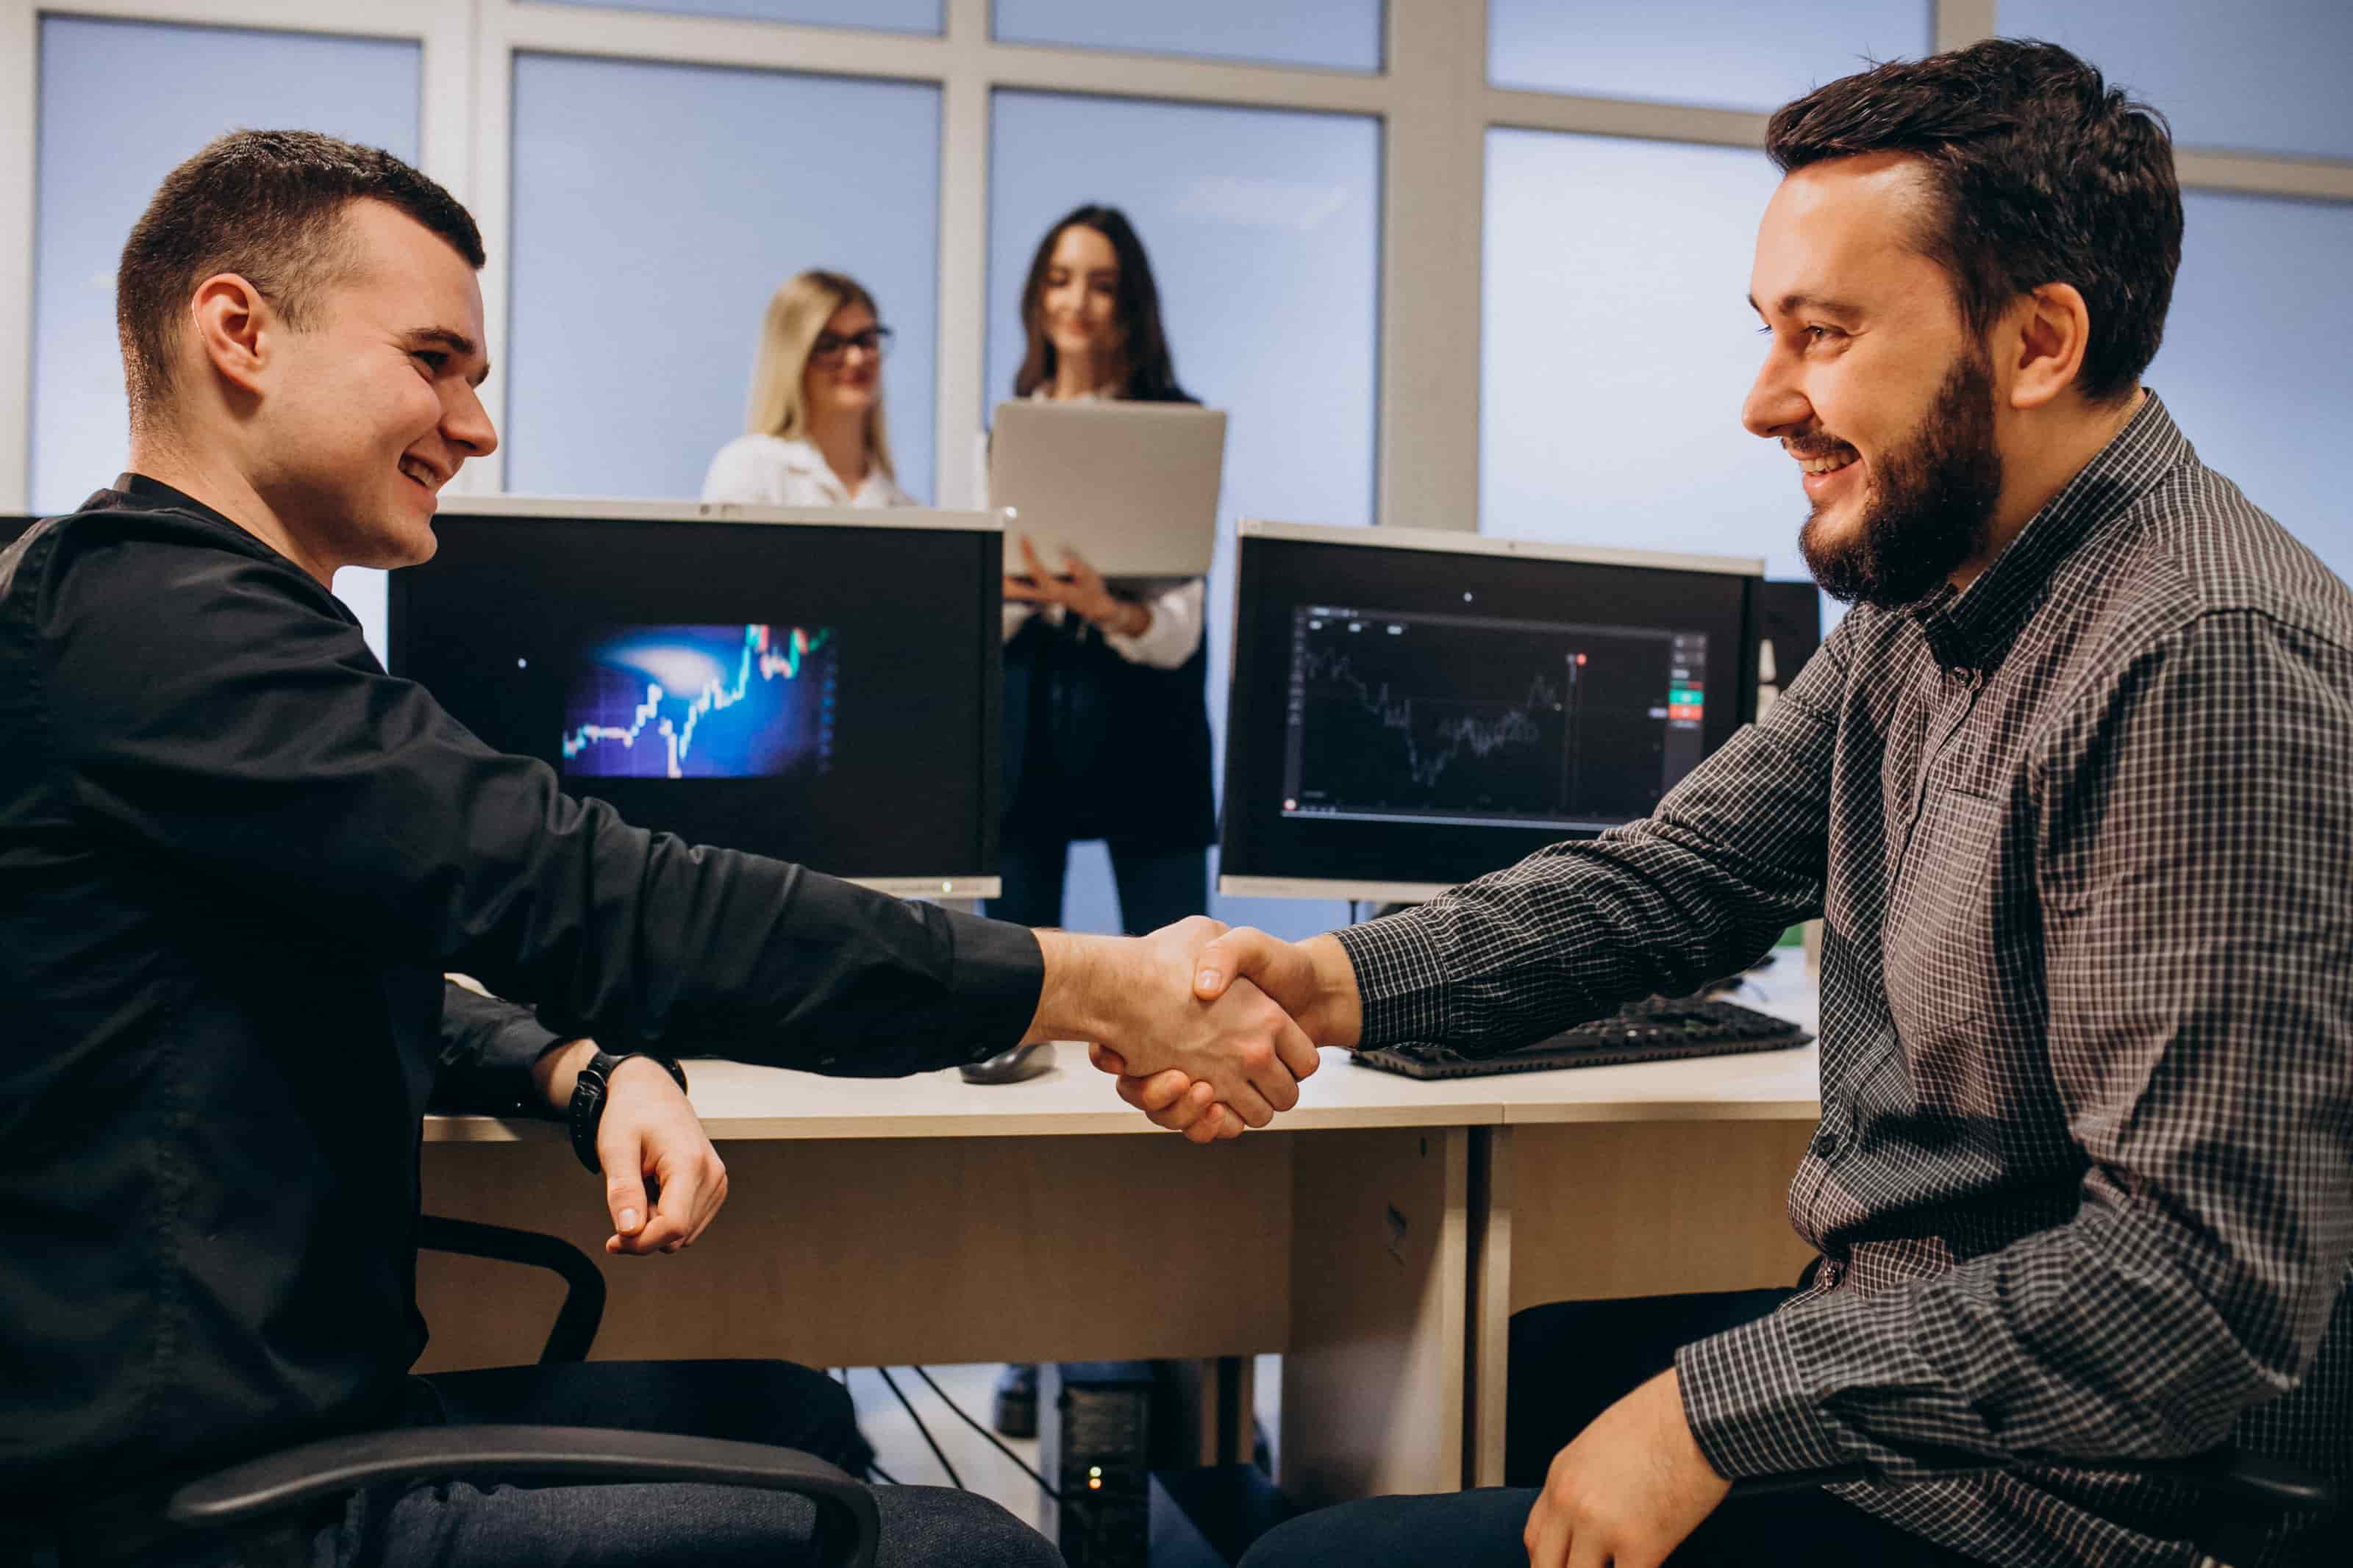
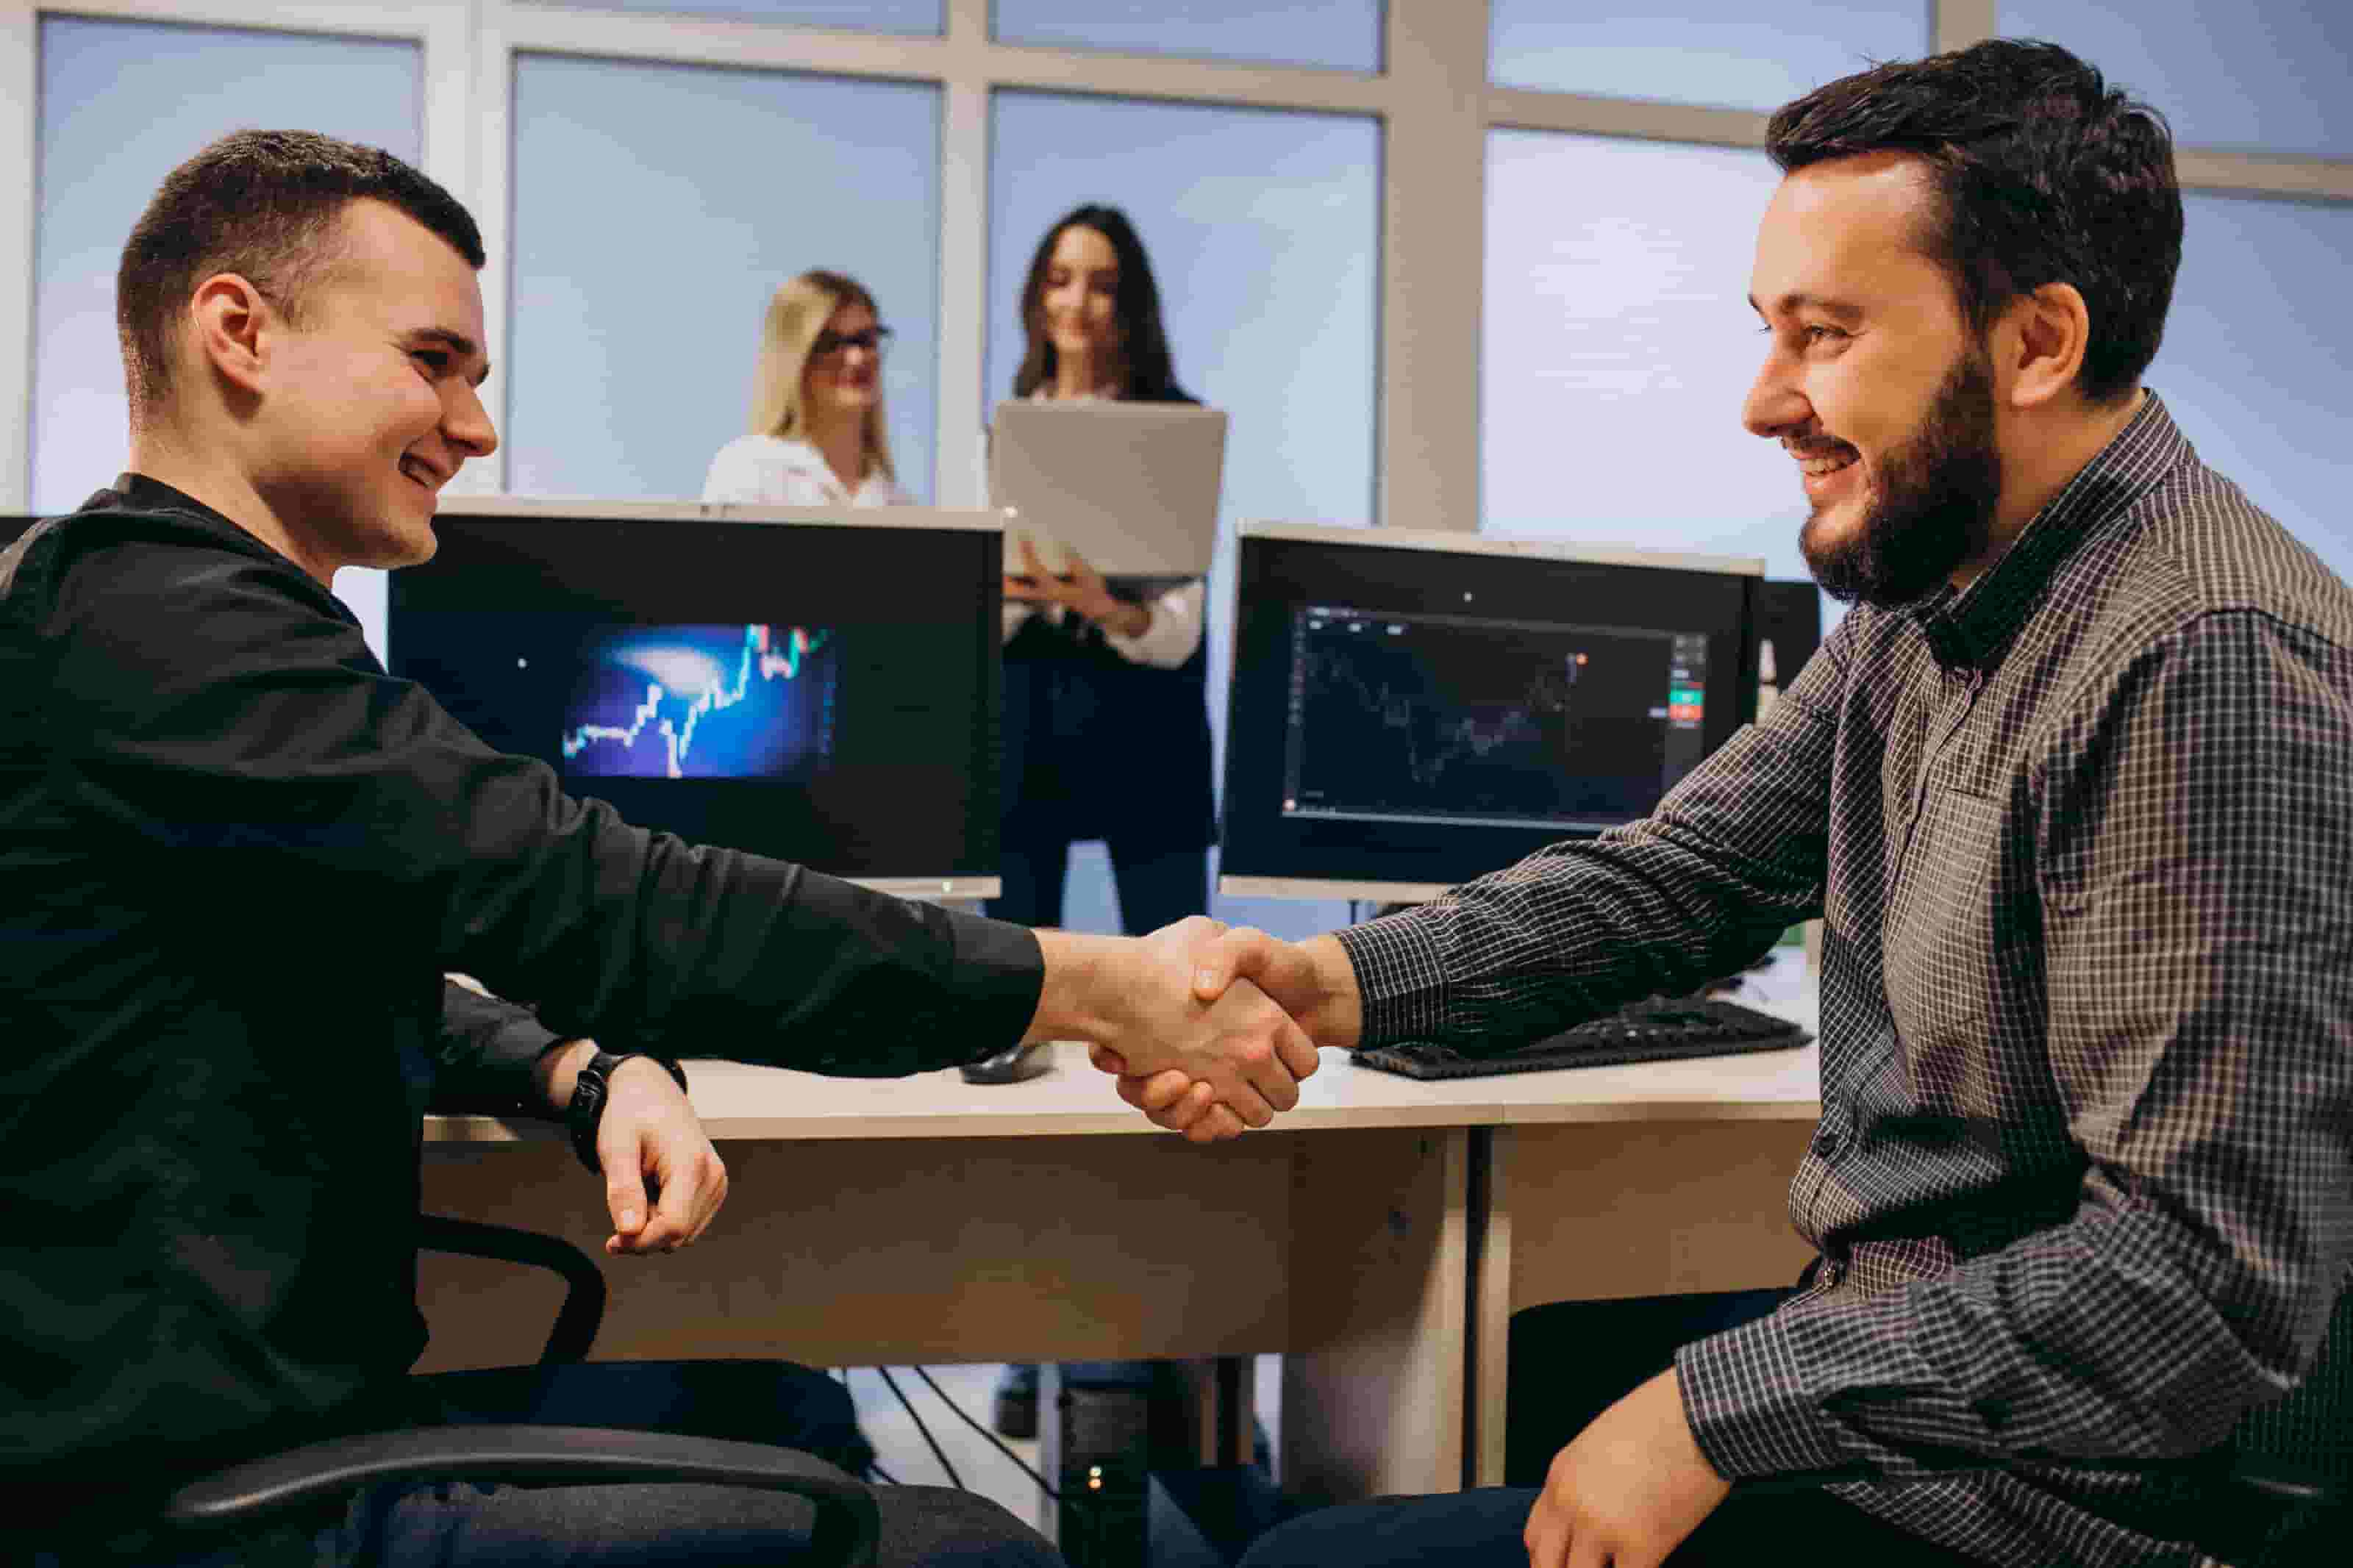
minified images

diff --git a/index.html b/index.html
@@ -19,7 +19,7 @@
     <!-- Header Section START -->
     <section class="header snap-item">
       <nav class="navbar">
-        <img src="img/header-logo.png" loading="lazy" alt="" />
+        <img src="img/header-logo-min.png" loading="lazy" alt="" />
         <ul class="nav-menu">
           <li class="hvr-underline-from-left">
             <a class="nav-item-sec g-text" href=""
